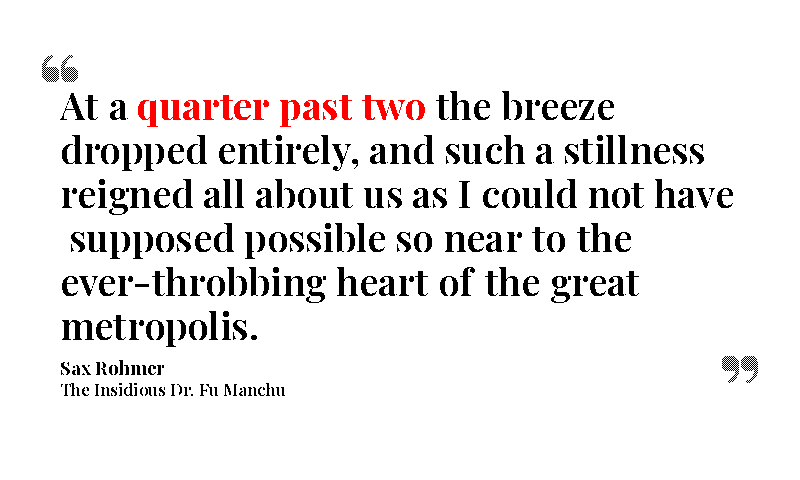
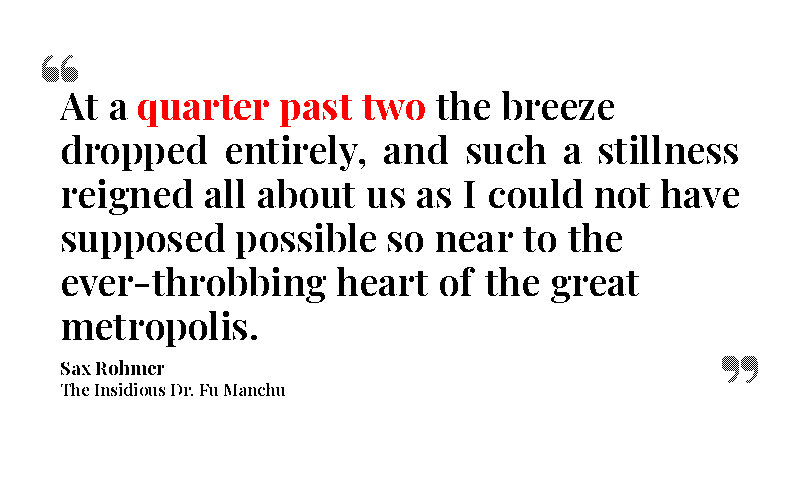
Justify quote text to fill the layout width
Distribute each non-final line's slack evenly across its internal
space tokens so every line reaches max_width; the last line stays
left-aligned per convention. Skips justification when the slack
would require stretching any single gap beyond 2x a normal space
to avoid ugly rivers on very short lines.

Changed region(s): [[0.25, 0.2812, 0.9375, 0.4375], [0.0625, 0.4688, 0.7812, 0.5625]]

diff --git a/render_quote.py b/render_quote.py
@@ -472,14 +472,45 @@ def render(time_str: str, quote_row: dict, width: int, height: int, mode: str = 
     )
 
     y = quote_top
-    for line in wrapped_quote:
+    total_lines = len(wrapped_quote)
+    for line_index, line in enumerate(wrapped_quote):
+        start = 0
+        while start < len(line) and line[start][0].strip() == "":
+            start += 1
+        end = len(line)
+        while end > start and line[end - 1][0].strip() == "":
+            end -= 1
+        drawable = line[start:end]
+
+        current_width = 0
+        for chunk, is_bold in drawable:
+            font = quote_font_bold if is_bold else quote_font
+            bbox = draw.textbbox((0, 0), chunk, font=font)
+            current_width += bbox[2] - bbox[0]
+
+        space_slots = sum(1 for chunk, _ in drawable if chunk == " ")
+        is_last = line_index == total_lines - 1
+        slack = layout["max_width"] - current_width
+        space_bbox = draw.textbbox((0, 0), " ", font=quote_font)
+        normal_space_w = max(1, space_bbox[2] - space_bbox[0])
+
+        distribute = []
+        if not is_last and space_slots > 0 and 0 < slack <= normal_space_w * 2 * space_slots:
+            base = slack // space_slots
+            remainder = slack - base * space_slots
+            distribute = [base + (1 if i < remainder else 0) for i in range(space_slots)]
+
         x = (width - layout["max_width"]) // 2
-        for chunk, is_bold in line:
+        space_idx = 0
+        for chunk, is_bold in drawable:
             font = quote_font_bold if is_bold else quote_font
             fill = colors["accent"] if is_bold else colors["text"]
             draw_text(draw, (x, y), chunk, font=font, fill=fill)
             bbox = draw.textbbox((0, 0), chunk, font=font)
             x += bbox[2] - bbox[0]
+            if distribute and chunk == " ":
+                x += distribute[space_idx]
+                space_idx += 1
         y += line_height
 
     close_bb = draw.textbbox((0, 0), "”", font=mark_font)
